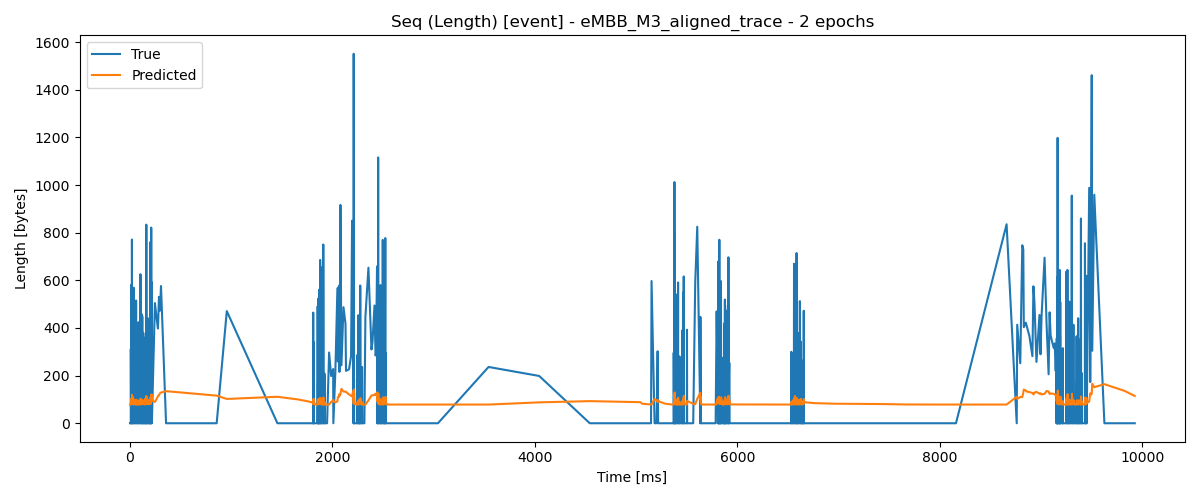
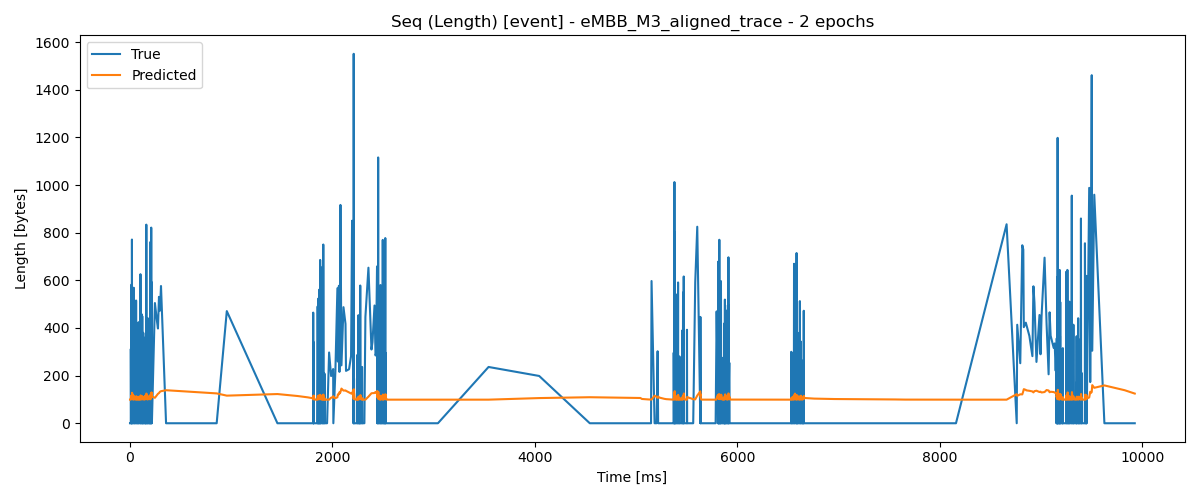
prev plot and predict result

Changed region(s): [[0.0925, 0.75, 0.925, 0.81]]

diff --git a/backend/notebooks/prev_plot_and_predict_runner.py b/backend/notebooks/prev_plot_and_predict_runner.py
@@ -54,19 +54,27 @@ class LSTMModel(nn.Module):
 
 def train_model(
     model: nn.Module,
-    loader: DataLoader,
+    train_loader: DataLoader,
+    val_loader: DataLoader | None,
     epochs: int,
     device: torch.device,
     lr: float = 1e-3,
-) -> None:
+    patience: int = 0,
+) -> Tuple[List[float], List[float]]:
     criterion = nn.MSELoss()
     optimizer = torch.optim.Adam(model.parameters(), lr=lr)
     model.to(device)
 
+    train_history: List[float] = []
+    val_history: List[float] = []
+    best_val = float("inf")
+    best_state = None
+    wait = 0
+
     for epoch in range(epochs):
         model.train()
         epoch_loss = 0.0
-        for xb, yb in loader:
+        for xb, yb in train_loader:
             xb = xb.to(device)
             yb = yb.to(device)
 
@@ -79,8 +87,61 @@ def train_model(
 
             epoch_loss += loss.item()
 
-        epoch_loss /= max(1, len(loader))
-        print(f"Epoch {epoch + 1}/{epochs} - Loss: {epoch_loss:.6f}")
+        epoch_loss /= max(1, len(train_loader))
+        train_history.append(epoch_loss)
+
+        if val_loader is not None:
+            model.eval()
+            val_loss = 0.0
+            with torch.no_grad():
+                for xb, yb in val_loader:
+                    xb = xb.to(device)
+                    yb = yb.to(device)
+                    preds = model(xb)
+                    loss = criterion(preds, yb)
+                    val_loss += loss.item()
+            val_loss /= max(1, len(val_loader))
+            val_history.append(val_loss)
+            print(
+                f"Epoch {epoch + 1}/{epochs} - train_loss={epoch_loss:.6f} val_loss={val_loss:.6f}"
+            )
+
+            if val_loss < best_val - 1e-6:
+                best_val = val_loss
+                best_state = {k: v.cpu() for k, v in model.state_dict().items()}
+                wait = 0
+            else:
+                wait += 1
+                if patience > 0 and wait >= patience:
+                    print("Early stopping triggered.")
+                    break
+        else:
+            print(f"Epoch {epoch + 1}/{epochs} - train_loss={epoch_loss:.6f}")
+
+    if best_state is not None:
+        model.load_state_dict(best_state)
+
+    return train_history, val_history
+
+
+def plot_loss_curves(
+    train_history: List[float],
+    val_history: List[float],
+    title: str,
+    output_path: Path,
+) -> None:
+    plt.figure(figsize=(8, 4))
+    epochs_range = range(1, len(train_history) + 1)
+    plt.plot(epochs_range, train_history, label="Train")
+    if val_history:
+        plt.plot(range(1, len(val_history) + 1), val_history, label="Val")
+    plt.xlabel("Epoch")
+    plt.ylabel("Loss")
+    plt.title(title)
+    plt.legend()
+    plt.tight_layout()
+    plt.savefig(output_path)
+    plt.close()
 
 
 def plot_predictions(
@@ -161,6 +222,8 @@ def train_feature_set(
     device: torch.device,
     hidden_dim: int,
     num_layers: int,
+    val_ratio: float,
+    patience: int,
     output_dir: Path,
 ) -> None:
     if "Length" not in feature_cols:
@@ -176,12 +239,35 @@ def train_feature_set(
     X_tensor = torch.tensor(X_np, dtype=torch.float32)
     y_tensor = torch.tensor(y_np, dtype=torch.float32).unsqueeze(-1)
 
-    dataset = TensorDataset(X_tensor, y_tensor)
-    train_loader = DataLoader(dataset, batch_size=batch_size, shuffle=True)
-    eval_loader = DataLoader(dataset, batch_size=batch_size, shuffle=False)
+    n_samples = X_tensor.size(0)
+    split_idx = n_samples
+    val_loader = None
+    train_loader = None
+
+    if val_ratio > 0.0:
+        val_ratio = float(np.clip(val_ratio, 0.0, 0.5))
+        split_idx = max(1, int(n_samples * (1 - val_ratio)))
+        val_dataset = TensorDataset(X_tensor[split_idx:], y_tensor[split_idx:])
+        if len(val_dataset) > 0:
+            val_loader = DataLoader(val_dataset, batch_size=batch_size, shuffle=False)
+
+    train_dataset = TensorDataset(X_tensor[:split_idx], y_tensor[:split_idx])
+    train_loader = DataLoader(train_dataset, batch_size=batch_size, shuffle=True)
+    eval_dataset = TensorDataset(X_tensor, y_tensor)
+    eval_loader = DataLoader(eval_dataset, batch_size=batch_size, shuffle=False)
 
     model = LSTMModel(input_dim=len(feature_cols), hidden_dim=hidden_dim, num_layers=num_layers)
-    train_model(model, train_loader, epochs=epochs, device=device)
+    train_hist, val_hist = train_model(
+        model,
+        train_loader,
+        val_loader,
+        epochs=epochs,
+        device=device,
+        patience=patience,
+    )
+
+    loss_plot = output_dir / f"{trace_path.stem}_loss_{feature_tag}.png"
+    plot_loss_curves(train_hist, val_hist, f"Loss - {trace_path.stem} [{feature_tag}]", loss_plot)
 
     preds, y_true = predict_in_batches(model, eval_loader, device=device)
 
@@ -250,6 +336,8 @@ def parse_args() -> argparse.Namespace:
     parser.add_argument("--batch-size", type=int, default=32, help="Mini-batch size.")
     parser.add_argument("--hidden-dim", type=int, default=64, help="Hidden dimension of the LSTM.")
     parser.add_argument("--num-layers", type=int, default=1, help="Number of LSTM layers.")
+    parser.add_argument("--val-ratio", type=float, default=0.1, help="Fraction of samples used for validation (chronological split).")
+    parser.add_argument("--early-stop", type=int, default=0, help="Early stopping patience based on validation loss (0 disables).")
     parser.add_argument(
         "--device",
         type=str,
@@ -308,6 +396,8 @@ def main() -> None:
             device=device,
             hidden_dim=args.hidden_dim,
             num_layers=args.num_layers,
+            val_ratio=args.val_ratio,
+            patience=args.early_stop,
             output_dir=output_dir,
         )
 

diff --git a/backend/README.md b/backend/README.md
@@ -380,6 +380,12 @@ Use `backend/notebooks/plot_and_predict_runner.py` to train PyTorch LSTM forecas
   --zero-weight 0.3 --val-ratio 0.1 --early-stop 10 --plateau-patience 5 --clip-grad 1.0
 
 
+python backend/notebooks/prev_plot_and_predict_runner.py backend/assets/traces/eMBB_M3_aligned_trace.csv \
+  --feature-sets length delta_t+length uniform-length \
+  --window 128 --hidden-dim 256 --num-layers 2 \
+  --val-ratio 0.1 --early-stop 10 --epochs 80 --batch-size 64
+
+
   ```
 - Multiple traces: run once per file to populate a common folder; each call writes `traceName_epochsX_regular.png` and `traceName_epochsX_irregular.png` with axes labelled in milliseconds and bytes:
 
